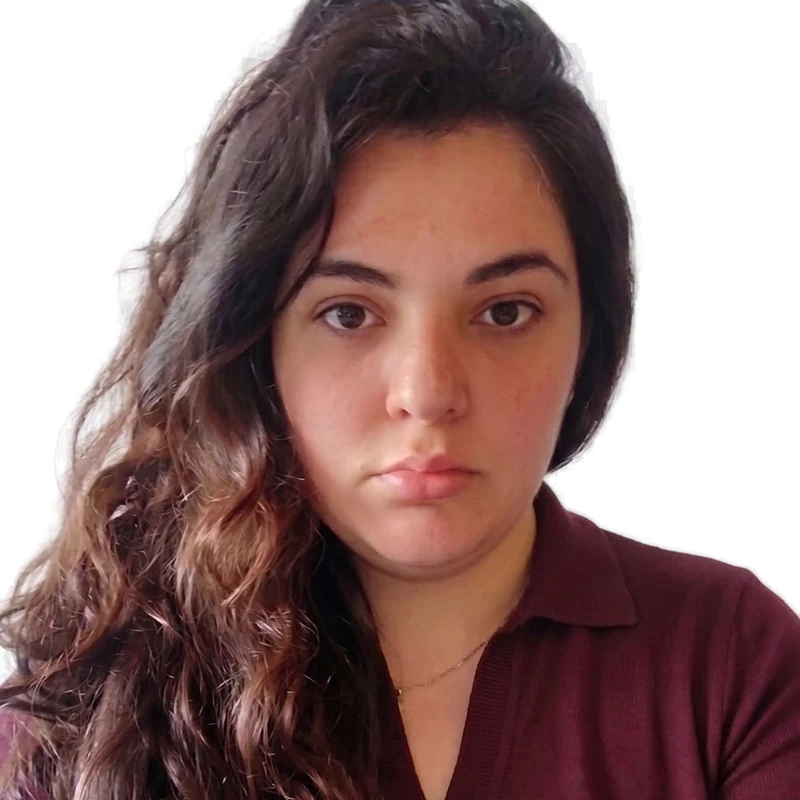
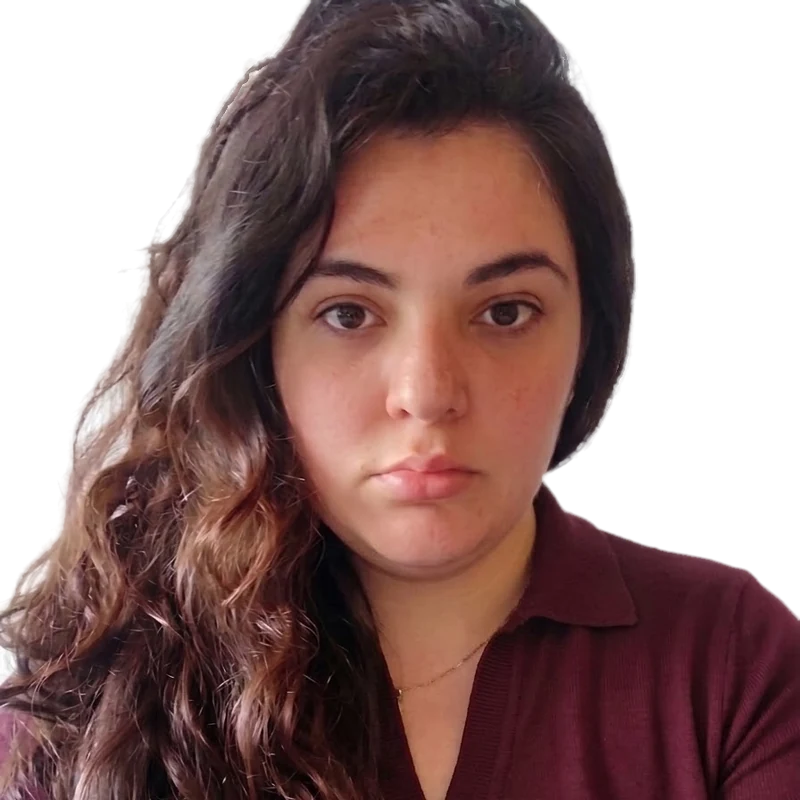
style: paleta violeta oscura, foto fundida y logotipo del nombre

diff --git a/src/main.ts b/src/main.ts
@@ -29,21 +29,17 @@ if (app) {
       <section class="hero-static" aria-label="Presentación">
         <div>
           <p class="pill">Aspiración: Desarrolladora backend</p>
-          <h1>Belén Calvo</h1>
-          <p class="hero-role">Estudiante de Programación — Backend, Frontend y Bases de Datos</p>
+          <h1 class="hero-title"><svg class="hero-name-svg" xmlns="http://www.w3.org/2000/svg" viewBox="16 48 407 124" role="img" aria-label="Belén Calvo" xmlns:c2pa="http://c2pa.org/manifest"><title>Belén Calvo</title><path d="M29.6 120.4Q26.8 120.4 24 119.9Q21.1 119.4 19.2 117.7Q17.2 116 17.2 112.2Q17.2 109.7 19.2 105.2Q21.2 100.7 24.3 95.5Q27.4 90.3 30.7 85.4Q33.9 80.4 36.4 77.1Q39.3 73.2 41.6 69.4Q43.9 65.6 44.4 62.6Q44.2 62.3 42 62.9Q39.7 63.4 36.9 63.4Q35 63.4 34.3 62.9Q33.7 62.3 33.7 61.5Q33.7 60.9 33.9 60.2Q34.2 59.6 34.5 58.7Q39.8 58.2 46 56.7Q52.2 55.2 58.3 53.9Q64.5 52.5 69.8 52.5Q77.8 52.5 81.2 56.1Q84.6 59.8 84.6 64.8Q84.6 69.3 81.7 73.1Q78.8 76.8 74.2 79.8Q69.7 82.8 64.5 85Q59.4 87.2 54.7 88.4Q50 89.6 47.1 89.7Q51.9 89.7 56.2 90.9Q60.4 92.2 63.2 94.7Q66 97.2 66 101.3Q66 105.4 63.6 108.5Q61.2 111.6 57.4 113.9Q53.6 116.2 49.2 117.6Q44.7 119.1 40.6 119.7Q36.4 120.4 33.6 120.4ZM36.8 89.4Q40.8 89.2 46.4 87.5Q52 85.8 58.1 83.2Q64.2 80.6 69.4 77.3Q74.6 74.1 77.9 70.5Q81.2 66.9 81.2 63.4Q81.2 58.5 70.4 58.5Q64.9 58.5 59 59.7Q53.1 61 47.5 62Q48.2 63.2 48.2 65.1Q48.2 67.7 46.8 71.1Q45.4 74.6 43.5 78.1Q41.6 81.6 39.7 84.6Q37.9 87.6 36.8 89.4ZM33 117.8Q37 117.8 41.7 116.1Q46.3 114.5 50.3 111.9Q54.3 109.2 56.9 106.3Q59.5 103.4 59.5 100.7Q59.5 96.9 56.6 95Q53.7 93.2 49.6 92.6Q45.4 92 41.7 92Q39.6 92 37.8 92Q36.1 92.1 35.1 92.2Q33.3 95.3 30.4 99.4Q27.6 103.5 25.3 107.4Q23 111.4 23 114.5Q23 115.8 24.9 116.8Q26.7 117.8 33 117.8ZM83 119.8Q78.6 119.8 75.9 117.2Q73.3 114.6 73.3 110Q73.3 106.4 74.7 102.4Q76 98.4 77.4 96.2Q80.1 91.1 84 86.9Q87.9 82.7 92.1 80.1Q96.2 77.6 99.7 77.6Q102.9 77.6 105.3 79.4Q107.6 81.2 107.6 84.2Q107.6 85.4 107 86.9Q106.4 88.5 105.1 90.2Q100.3 96.3 94.5 99.7Q88.6 103.1 81.2 104.8Q80.7 106.4 80.4 107.9Q80 109.4 79.8 110.7Q79.6 111.3 79.6 111.8Q79.5 112.4 79.5 113Q79.5 115.4 80.7 116.4Q81.8 117.4 83.5 117.4Q86.1 117.4 89.2 116.1Q92.2 114.9 94.9 113.3Q97.6 111.6 99 110.4Q102.3 107.7 106.1 103.9Q109.9 100.1 112.9 96.5Q114.8 91.7 117.2 86.6Q119.6 81.4 122.1 76.6Q124.6 71.8 126.7 68.3Q131.1 61 135 57Q138.8 53.1 141.9 51.6Q144.9 50.2 146.8 50.3Q143.7 53.8 140 58.8Q136.3 63.9 132.1 71Q126.8 80.1 122.9 87.5Q119 95 116.2 102.8Q114.7 107.3 114.7 110.2Q114.7 114.3 117.4 114.3Q119.6 114.3 122.3 112.1Q125 110 126.6 108.3Q129 105.9 130.8 103.8Q132.7 101.7 134.5 99.5Q134.8 99.2 135.1 99.2Q135.8 99.2 135.8 100.2Q135.8 100.8 135.3 101.3Q134 102.9 132.7 104.5Q131.5 106.1 130 107.7Q128.8 109.2 127.3 110.7Q125.8 112.2 124.5 113.6Q122.5 115.5 119.5 116.9Q116.6 118.4 114.1 118.4Q111.8 118.4 110.2 116.9Q108.7 115.4 108.7 111.6Q108.7 110.8 108.8 109.8Q108.9 108.8 109.2 107.6Q109.4 106.6 109.7 105.3Q110 104.1 110.5 102.6Q108.2 104.9 105.5 107.5Q102.8 110.1 100.6 112.1Q97.8 114.6 93.2 117.2Q88.6 119.8 83 119.8ZM81.9 103.2Q85 101.9 89.2 99.4Q93.3 96.9 97.2 93.3Q101.1 89.8 103.6 85.7Q104.5 84.4 104.5 83.3Q104.5 81.6 102.6 81.6Q101.2 81.6 99.3 82.6Q93.3 85.8 89 91.4Q84.7 96.9 81.9 103.2ZM141.9 119.8Q137.5 119.8 134.8 117.2Q132.2 114.6 132.2 110Q132.2 106.4 133.6 102.4Q135 98.4 136.3 96.2Q139 91.1 142.9 86.9Q146.8 82.7 151 80.1Q155.1 77.6 158.6 77.6Q161.8 77.6 164.2 79.4Q166.5 81.2 166.5 84.2Q166.5 85.4 165.9 86.9Q165.3 88.5 164 90.2Q159.2 96.3 153.4 99.7Q147.6 103.1 140.1 104.8Q139.6 106.4 139.3 107.9Q138.9 109.4 138.7 110.7Q138.6 111.3 138.5 111.8Q138.4 112.4 138.4 113Q138.4 115.4 139.6 116.4Q140.7 117.4 142.4 117.4Q145 117.4 148 116Q151 114.6 153.7 112.8Q156.3 111 157.6 110Q159 108.8 160.2 107.5Q161.5 106.2 163 104.7Q164.2 103.4 165.3 102.1Q166.4 100.8 167.4 99.5Q167.7 99.2 168 99.2Q168.7 99.2 168.7 100.2Q168.7 100.8 168.2 101.3Q166 104 163.9 106.5Q161.7 109.1 159.4 111.5Q156.8 114.3 152.2 117Q147.6 119.8 141.9 119.8ZM140.8 103.2Q144 101.9 148.1 99.4Q152.2 96.9 156.1 93.3Q160 89.8 162.6 85.7Q163.4 84.4 163.4 83.3Q163.4 81.6 161.5 81.6Q160.2 81.6 158.2 82.6Q152.2 85.8 147.9 91.4Q143.6 96.9 140.8 103.2ZM157 71.6Q156.3 71.6 156.3 70.7Q156.3 70.2 156.8 69.9Q159.1 67.8 161.9 65Q164.7 62.2 165.9 61Q166.4 60.4 167.2 59.9Q168 59.3 168.8 59.3Q170.5 59.3 171.3 60Q172 60.8 172 61.2Q172 61.5 170.4 62.8Q168.8 64.1 166.8 65.5Q164.8 66.9 163.8 67.6Q163 68.1 161.6 69Q160.2 70 158.8 70.7Q157.5 71.4 157.2 71.6ZM159.1 118.7Q164.2 109.1 167.7 100.2Q171.1 91.2 175.5 82.1Q176.8 79.7 178.9 78.8Q180.9 77.9 182.8 77.9Q184.4 77.9 185.6 78.3Q185.2 79.1 183.7 81.6Q182.2 84 180.6 87.2Q179.4 89.3 177 93.8Q174.6 98.3 172.5 103.1Q173.6 101.8 175.9 98.8Q178.2 95.8 181.2 92.3Q184.2 88.7 187.5 85.4Q190.8 82.1 193.9 80Q197.1 77.9 199.6 77.9Q201.6 77.9 203 79.1Q204.4 80.3 204.4 82.4Q204.4 85.4 201.9 89.4Q199.4 93.4 196.9 97.2Q196.4 98 195.1 100Q193.9 102 192.4 104.6Q191 107.2 190 109.5Q189 111.9 189 113.2Q189 114.5 190 114.5Q192.3 114.5 194.8 112.7Q197.2 110.9 199.5 108.6Q201.8 106.2 203.1 104.7Q204.4 103.2 205.5 101.9Q206.6 100.6 207.7 99.4Q208 99 208.3 99Q209 99 209 100.1Q209 100.8 208.5 101.3Q207.2 102.9 205.9 104.5Q204.6 106.1 203.1 107.7Q201.8 109.2 200.4 110.7Q199 112.2 197.6 113.6Q192.4 118.4 188 118.4Q185 118.4 184 116.6Q183 114.8 183 112.1Q183 109.2 184.5 105.9Q186.1 102.5 188.4 99Q190.6 95.4 193 92.1Q195.3 88.7 196.9 85.9Q198.4 83.1 198.4 81.2Q198.4 80.4 197.6 80.4Q196.9 80.4 194.8 82.2Q192.7 83.9 190.3 86.3Q187.9 88.6 185.8 90.8Q183.7 92.9 183 93.9Q180 97.1 177.1 100.8Q174.3 104.6 171.8 108Q170.4 110.1 169.3 112.2Q168.2 114.3 166.9 116.6Q166.3 117.6 165.3 117.8Q164.2 118 162.6 118.1Q161.4 118.1 160.6 118.2Q159.9 118.2 159.1 118.7ZM248.5 120.4Q241.9 120.4 237.9 118Q233.8 115.6 232 111.5Q230.2 107.3 230.2 102.2Q230.2 95.8 232.6 88.9Q235 82 239.2 75.6Q243.4 69.3 248.9 64.2Q254.4 59.1 260.7 56.1Q267 53.1 273.4 53.1Q280.6 53.1 284 56.3Q287.4 59.6 287.4 64.1Q287.4 66.3 286.6 68.7Q285.8 71.3 284.6 74.1Q283.4 77 282.4 79.2Q281.5 81.4 281.1 82.4Q279.2 82.4 278.5 81.3Q277.8 80.2 277.8 78.4Q277.8 76.4 278.6 73.6Q279.4 70.8 280.5 68.2Q281.7 65.4 281.7 62.7Q281.7 59.9 280.2 58Q278.6 56.1 275.1 56.1Q268.8 56.1 263.1 59.4Q257.5 62.7 252.9 68.1Q248.2 73.6 244.9 80.1Q241.5 86.6 239.7 93Q237.8 99.4 237.8 104.6Q237.8 110.3 240.3 114Q242.7 117.6 249.3 117.6Q257.2 117.6 264.1 111.3Q270.9 105 274.8 95.2Q276.2 96 276.2 98.8Q276.2 103.5 273.4 107.4Q270.7 111.4 266.3 114.3Q261.9 117.2 257.2 118.8Q252.4 120.4 248.5 120.4ZM288.2 118.5Q284.2 118.5 282.7 116.6Q281.1 114.6 281.1 111.9Q281.1 108.3 282.9 104.2Q284.6 100.1 285.9 97.8Q289.2 92.7 293.6 88Q298 83.3 303 80.4Q308 77.4 312.6 77.4Q315 77.4 317.2 78.2Q319.5 79 321.7 80.8Q322.8 81.6 323.2 82.4Q323.6 83.2 323.6 83.8Q323.6 85.6 322 85.6Q321 85.6 320.5 84.2Q318.9 80.1 315.4 80.1Q312.4 80.1 308.6 82.8Q304.8 85.6 301 89.4Q297 93.8 293.6 98.7Q290.2 103.7 288.6 107.8Q287.7 109.6 287.4 111Q287.1 112.4 287.1 113.3Q287.1 115.5 288.9 115.5Q291 115.5 294.9 112.5Q297.8 110.2 300.9 107Q303.9 103.7 306.6 100.5Q309.2 97.4 310.8 95.6Q311.4 94.6 311.9 93.8Q312.4 92.9 312.9 92.3Q313.4 91.7 314.5 91.4Q315.7 91 316.9 91Q318.3 91 319.3 91.5Q320.2 92 319.6 93.2Q319.6 93.3 318.3 95.6Q317 98 315.3 101.2Q313.5 104.4 312.2 107.4Q311.5 109.1 311 110.6Q310.5 112 310.5 113Q310.5 114.5 311.7 114.5Q312.6 114.5 314.2 113.6Q316.9 112.2 319.6 109.7Q322.3 107.2 324.6 104.6Q325.9 103.2 327 102Q328 100.8 329 99.5Q329.4 99.2 329.6 99.2Q330.3 99.2 330.3 100.2Q330.3 100.8 329.8 101.3Q328.5 102.9 327.2 104.5Q325.9 106.1 324.4 107.7Q323.1 109.2 321.7 110.7Q320.4 112.2 318.9 113.6Q313.8 118.4 309.4 118.4Q307.5 118.4 306.2 117Q304.9 115.6 304.9 112.6Q304.9 110.3 305.7 107.4Q306 106.1 306.5 104.8Q307 103.5 307.5 102Q305.1 105.9 302.1 109.7Q299 113.4 295.5 116Q292 118.5 288.2 118.5ZM331.4 118.4Q329.1 118.4 327.6 116.9Q326 115.4 326 111.6Q326 110.8 326.1 109.8Q326.2 108.8 326.5 107.6Q327.1 104.3 329 99.3Q330.9 94.2 333.6 88.5Q336.2 82.8 339 77.5Q341.7 72.2 344 68.3Q348.4 61 352.3 57Q356.1 53.1 359.1 51.6Q362.1 50.2 364.2 50.3Q361 53.8 357.3 58.8Q353.6 63.9 349.4 71Q344.1 80.1 340.2 87.5Q336.3 95 333.6 102.8Q332 107.3 332 110.2Q332 114.3 334.8 114.3Q336.9 114.3 339.6 112.1Q342.3 110 343.9 108.3Q346.3 105.9 348.1 103.8Q350 101.7 351.8 99.5Q352.2 99.2 352.4 99.2Q353.1 99.2 353.1 100.2Q353.1 100.8 352.6 101.3Q351.3 102.9 350.1 104.5Q348.8 106.1 347.4 107.7Q346.2 109.2 344.7 110.7Q343.2 112.2 341.7 113.6Q339.7 115.5 336.8 116.9Q333.9 118.4 331.4 118.4ZM357.9 119.4Q354.6 119.4 353 117.3Q351.4 115.1 351.4 111.6Q351.4 108 352.9 103.5Q354.4 99 357 94.4Q359.6 89.8 362.8 86Q366.1 82.2 369.4 80.2Q366.3 80.3 363 81.6Q359.7 82.8 357.3 82.8Q355.3 82.8 354 81.2Q352.6 79.6 352.6 78.4Q352.6 77.7 353.4 77.7Q353.8 77.7 354.7 78.2Q355.9 78.9 357.7 79.1Q359.5 79.4 361.5 79.4Q364.3 79.4 366.9 79.1Q369.4 78.8 370.8 78.6Q371.1 78.5 371.6 78.5Q372.1 78.5 372.6 78.5Q373.9 78.5 374.9 78.8Q375.9 79 375.9 79.7Q375.9 80.6 374.6 81.5Q372.9 82.7 370.1 86.1Q367.3 89.4 364.3 93.9Q361.4 98.3 359.2 102.9Q359 103.6 358.2 105.7Q357.3 107.8 356.6 110.2Q355.9 112.6 355.9 114.5Q355.9 117.4 357.9 117.4Q361.5 117.4 365.2 114.6Q369 111.9 372.3 107.4Q375.7 103 378.3 97.8Q381 92.7 382.5 87.6Q384.1 82.6 384.1 78.8Q384.1 76.7 384 75Q383.8 73.4 383.4 71.8Q383.7 71.7 384.1 71.7Q384.4 71.7 384.7 71.7Q387.4 71.7 388.7 74.2Q390 76.7 390 79.8Q390 86 385.9 93.7Q381.9 101.4 375.4 108.9Q373.3 111.2 370.6 113.6Q367.9 116.1 364.8 117.8Q361.6 119.4 357.9 119.4ZM395 118.8Q390.6 118.8 388.3 116Q386.1 113.1 386.1 108.6Q386.1 103.6 388.8 97.6Q391.2 92.2 394.9 87.8Q398.7 83.3 403.2 80.6Q407.6 77.9 411.7 77.9Q416.6 77.9 418.9 80.9Q421.2 83.9 421.2 88.5Q421.2 93.4 418.6 99Q417.3 101.9 414.8 105.3Q412.3 108.6 409 111.8Q405.8 114.9 402.1 116.9Q398.5 118.8 395 118.8ZM397.3 116.4Q399.8 116.4 402.3 114.7Q404.8 113 407.1 110.4Q409.4 107.9 411.1 105.3Q412.9 102.8 413.7 101Q415.8 97.1 416.7 93.6Q417.7 90 417.7 87.4Q417.7 81.6 413.4 81.6Q410.7 81.6 407.8 83.7Q404.8 85.8 402.1 89.3Q399.3 92.8 397.3 97.1Q393 105.8 393 111.2Q393 115.5 395.7 116.2Q396.1 116.3 396.4 116.4Q396.8 116.4 397.3 116.4Z" fill="currentColor"/><path d="M29.4 170.2Q28.2 170.2 27.4 169.8Q26.5 169.4 26.1 168.7Q25.6 167.9 25.7 166.9L25.9 163.6Q26 162.5 25.6 162.1Q25.2 161.6 23.9 161.6H21.7V160H23.9Q25.2 160 25.6 159.5Q26 159.1 25.9 158L25.7 154.7Q25.6 153.7 26.1 152.9Q26.5 152.2 27.4 151.8Q28.2 151.4 29.4 151.4H30.3V153H29.4Q28.5 153 28 153.4Q27.5 153.9 27.5 154.7L27.7 158Q27.8 159.3 27.1 160.1Q26.4 160.8 25.1 160.8V160.7Q26.4 160.7 27.1 161.5Q27.8 162.3 27.7 163.6L27.5 166.9Q27.5 167.7 28 168.2Q28.5 168.6 29.4 168.6H30.3V170.2ZM50.6 168.2Q49.3 168.2 48.5 167.5Q47.6 166.7 47.6 165.5L48 165.9H47.6V168H45.8V153.4H47.6V156.6L47.6 159.1H48L47.6 159.5Q47.6 158.3 48.5 157.5Q49.3 156.8 50.6 156.8Q52.3 156.8 53.3 157.9Q54.3 159 54.3 160.9V164.1Q54.3 166 53.3 167.1Q52.3 168.2 50.6 168.2ZM50 166.6Q51.2 166.6 51.8 166Q52.5 165.3 52.5 164V161Q52.5 159.7 51.8 159Q51.2 158.4 50 158.4Q48.9 158.4 48.3 159.1Q47.6 159.8 47.6 161V164Q47.6 165.2 48.3 165.9Q48.9 166.6 50 166.6ZM61 168.2Q59.3 168.2 58.3 167.3Q57.3 166.4 57.3 164.9Q57.3 163.4 58.3 162.5Q59.3 161.6 61 161.6H64.4V160.5Q64.4 159.5 63.8 158.9Q63.2 158.4 62.1 158.4Q61.1 158.4 60.4 158.8Q59.8 159.2 59.7 159.9H57.9Q58 158.5 59.2 157.6Q60.4 156.8 62.1 156.8Q64 156.8 65.1 157.8Q66.2 158.8 66.2 160.4V168H64.4V165.9H64.1L64.4 165.6Q64.4 166.8 63.5 167.5Q62.6 168.2 61 168.2ZM61.5 166.8Q62.8 166.8 63.6 166.1Q64.4 165.5 64.4 164.5V162.9H61Q60.1 162.9 59.6 163.4Q59.1 163.9 59.1 164.8Q59.1 165.7 59.7 166.2Q60.4 166.8 61.5 166.8ZM74.1 168.2Q72.8 168.2 71.8 167.7Q70.8 167.2 70.2 166.2Q69.7 165.3 69.7 164V161Q69.7 159.7 70.2 158.7Q70.8 157.8 71.8 157.3Q72.8 156.8 74.1 156.8Q76 156.8 77.1 157.8Q78.3 158.8 78.4 160.6H76.6Q76.5 159.5 75.8 159Q75.2 158.4 74.1 158.4Q72.9 158.4 72.2 159.1Q71.5 159.7 71.5 161V164Q71.5 165.2 72.2 165.9Q72.9 166.6 74.1 166.6Q75.2 166.6 75.8 166Q76.5 165.4 76.6 164.4H78.4Q78.3 166.2 77.1 167.2Q76 168.2 74.1 168.2ZM81.9 168V153.4H83.7V161.5H85.8L89 157H91.1L87.4 162.2L91.1 168H89L85.8 163.1H83.7V168ZM98 168.2Q96.7 168.2 95.7 167.7Q94.8 167.2 94.2 166.2Q93.7 165.3 93.7 164V161Q93.7 159.7 94.2 158.8Q94.8 157.8 95.7 157.3Q96.7 156.8 98 156.8Q99.3 156.8 100.3 157.3Q101.2 157.8 101.8 158.8Q102.3 159.7 102.3 161V162.9H95.5V164Q95.5 165.3 96.1 166Q96.8 166.7 98 166.7Q99 166.7 99.7 166.3Q100.3 165.9 100.5 165.2H102.3Q102.1 166.6 100.9 167.4Q99.7 168.2 98 168.2ZM100.5 161.7V161Q100.5 159.7 99.9 159Q99.2 158.3 98 158.3Q96.8 158.3 96.1 159Q95.5 159.7 95.5 161V161.6H100.7ZM105.8 168V157H107.6V159.1H108L107.6 159.5Q107.6 158.2 108.4 157.5Q109.2 156.8 110.6 156.8Q112.2 156.8 113.2 157.8Q114.2 158.8 114.2 160.6V168H112.4V160.8Q112.4 159.6 111.8 159Q111.1 158.4 110.1 158.4Q108.9 158.4 108.3 159Q107.6 159.7 107.6 161V168ZM121.4 168.2Q119.7 168.2 118.7 167.1Q117.7 166 117.7 164.1V160.9Q117.7 159 118.7 157.9Q119.7 156.8 121.4 156.8Q122.7 156.8 123.5 157.5Q124.4 158.3 124.4 159.5L124 159.1H124.4L124.4 156.6V153.4H126.2V168H124.4V165.9H124L124.4 165.5Q124.4 166.7 123.5 167.5Q122.7 168.2 121.4 168.2ZM122 166.6Q123.1 166.6 123.7 165.9Q124.4 165.2 124.4 164V161Q124.4 159.8 123.7 159.1Q123.1 158.4 122 158.4Q120.8 158.4 120.2 159Q119.5 159.7 119.5 161V164Q119.5 165.3 120.2 166Q120.8 166.6 122 166.6ZM146 162.8Q145.2 162.8 144.8 162.4Q144.3 161.9 144.3 161.2Q144.3 160.4 144.8 159.9Q145.2 159.5 146 159.5Q146.8 159.5 147.2 159.9Q147.7 160.4 147.7 161.2Q147.7 161.9 147.2 162.4Q146.8 162.8 146 162.8ZM168.4 168V159.7H165.2V158.1H168.4V156.2Q168.4 154.9 169.2 154.2Q170 153.4 171.5 153.4H174.7V155H171.5Q170.9 155 170.5 155.3Q170.2 155.6 170.2 156.2V158.1H174.7V159.7H170.2V168ZM178.2 168V157H180V159.1H180.4L179.8 160.4Q179.8 158.6 180.6 157.7Q181.4 156.8 182.9 156.8Q184.6 156.8 185.7 157.9Q186.7 159 186.7 160.8V161.5H184.9V161Q184.9 159.7 184.2 159Q183.6 158.3 182.5 158.3Q181.3 158.3 180.7 159Q180 159.7 180 161V168ZM194 168.2Q192.7 168.2 191.7 167.7Q190.8 167.2 190.2 166.2Q189.7 165.3 189.7 164V161Q189.7 159.7 190.2 158.8Q190.8 157.8 191.7 157.3Q192.7 156.8 194 156.8Q195.3 156.8 196.3 157.3Q197.2 157.8 197.8 158.8Q198.3 159.7 198.3 161V164Q198.3 165.3 197.8 166.2Q197.2 167.2 196.3 167.7Q195.3 168.2 194 168.2ZM194 166.6Q195.2 166.6 195.8 165.9Q196.5 165.2 196.5 164V161Q196.5 159.8 195.8 159.1Q195.2 158.4 194 158.4Q192.8 158.4 192.2 159.1Q191.5 159.8 191.5 161V164Q191.5 165.2 192.2 165.9Q192.8 166.6 194 166.6ZM201.8 168V157H203.6V159.1H204L203.6 159.5Q203.6 158.2 204.4 157.5Q205.2 156.8 206.6 156.8Q208.2 156.8 209.2 157.8Q210.2 158.8 210.2 160.6V168H208.4V160.8Q208.4 159.6 207.8 159Q207.1 158.4 206.1 158.4Q204.9 158.4 204.3 159Q203.6 159.7 203.6 161V168ZM219.2 168Q217.8 168 217 167.2Q216.2 166.5 216.2 165.1V158.6H213.1V157H216.2V153.9H218V157H222.4V158.6H218V165.1Q218 166.4 219.2 166.4H222.2V168ZM230 168.2Q228.7 168.2 227.7 167.7Q226.8 167.2 226.2 166.2Q225.7 165.3 225.7 164V161Q225.7 159.7 226.2 158.8Q226.8 157.8 227.7 157.3Q228.7 156.8 230 156.8Q231.3 156.8 232.3 157.3Q233.2 157.8 233.8 158.8Q234.3 159.7 234.3 161V162.9H227.5V164Q227.5 165.3 228.1 166Q228.8 166.7 230 166.7Q231 166.7 231.7 166.3Q232.3 165.9 232.5 165.2H234.3Q234.1 166.6 232.9 167.4Q231.7 168.2 230 168.2ZM232.5 161.7V161Q232.5 159.7 231.9 159Q231.2 158.3 230 158.3Q228.8 158.3 228.1 159Q227.5 159.7 227.5 161V161.6H232.7ZM237.8 168V157H239.6V159.1H240L239.6 159.5Q239.6 158.2 240.4 157.5Q241.2 156.8 242.6 156.8Q244.2 156.8 245.2 157.8Q246.2 158.8 246.2 160.6V168H244.4V160.8Q244.4 159.6 243.8 159Q243.1 158.4 242.1 158.4Q240.9 158.4 240.3 159Q239.6 159.7 239.6 161V168ZM253.4 168.2Q251.7 168.2 250.7 167.1Q249.7 166 249.7 164.1V160.9Q249.7 159 250.7 157.9Q251.7 156.8 253.4 156.8Q254.7 156.8 255.5 157.5Q256.4 158.3 256.4 159.5L256 159.1H256.4L256.4 156.6V153.4H258.2V168H256.4V165.9H256L256.4 165.5Q256.4 166.7 255.5 167.5Q254.7 168.2 253.4 168.2ZM254 166.6Q255.1 166.6 255.7 165.9Q256.4 165.2 256.4 164V161Q256.4 159.8 255.7 159.1Q255.1 158.4 254 158.4Q252.8 158.4 252.2 159Q251.5 159.7 251.5 161V164Q251.5 165.3 252.2 166Q252.8 166.6 254 166.6ZM278 162.8Q277.2 162.8 276.8 162.4Q276.3 161.9 276.3 161.2Q276.3 160.4 276.8 159.9Q277.2 159.5 278 159.5Q278.8 159.5 279.2 159.9Q279.7 160.4 279.7 161.2Q279.7 161.9 279.2 162.4Q278.8 162.8 278 162.8ZM301.4 168.2Q299.7 168.2 298.7 167.1Q297.7 166 297.7 164.1V160.9Q297.7 159 298.7 157.9Q299.7 156.8 301.4 156.8Q302.7 156.8 303.5 157.5Q304.4 158.3 304.4 159.5L304 159.1H304.4L304.4 156.6V153.4H306.2V168H304.4V165.9H304L304.4 165.5Q304.4 166.7 303.5 167.5Q302.7 168.2 301.4 168.2ZM302 166.6Q303.1 166.6 303.7 165.9Q304.4 165.2 304.4 164V161Q304.4 159.8 303.7 159.1Q303.1 158.4 302 158.4Q300.8 158.4 300.2 159Q299.5 159.7 299.5 161V164Q299.5 165.3 300.2 166Q300.8 166.6 302 166.6ZM313 168.2Q311.3 168.2 310.3 167.3Q309.3 166.4 309.3 164.9Q309.3 163.4 310.3 162.5Q311.3 161.6 313 161.6H316.4V160.5Q316.4 159.5 315.8 158.9Q315.2 158.4 314.1 158.4Q313.1 158.4 312.4 158.8Q311.8 159.2 311.7 159.9H309.9Q310 158.5 311.2 157.6Q312.4 156.8 314.1 156.8Q316 156.8 317.1 157.8Q318.2 158.8 318.2 160.4V168H316.4V165.9H316.1L316.4 165.6Q316.4 166.8 315.5 167.5Q314.6 168.2 313 168.2ZM313.5 166.8Q314.8 166.8 315.6 166.1Q316.4 165.5 316.4 164.5V162.9H313Q312.1 162.9 311.6 163.4Q311.1 163.9 311.1 164.8Q311.1 165.7 311.7 166.2Q312.4 166.8 313.5 166.8ZM327.2 168Q325.8 168 325 167.2Q324.2 166.5 324.2 165.1V158.6H321.1V157H324.2V153.9H326V157H330.4V158.6H326V165.1Q326 166.4 327.2 166.4H330.2V168ZM338 168.2Q336.7 168.2 335.7 167.7Q334.8 167.2 334.2 166.2Q333.7 165.3 333.7 164V161Q333.7 159.7 334.2 158.8Q334.8 157.8 335.7 157.3Q336.7 156.8 338 156.8Q339.3 156.8 340.3 157.3Q341.2 157.8 341.8 158.8Q342.3 159.7 342.3 161V164Q342.3 165.3 341.8 166.2Q341.2 167.2 340.3 167.7Q339.3 168.2 338 168.2ZM338 166.6Q339.2 166.6 339.8 165.9Q340.5 165.2 340.5 164V161Q340.5 159.8 339.8 159.1Q339.2 158.4 338 158.4Q336.8 158.4 336.2 159.1Q335.5 159.8 335.5 161V164Q335.5 165.2 336.2 165.9Q336.8 166.6 338 166.6ZM349.7 168.2Q348.5 168.2 347.7 167.8Q346.9 167.5 346.4 166.8Q345.9 166.2 345.8 165.3H347.6Q347.7 165.9 348.2 166.2Q348.8 166.6 349.7 166.6H350.5Q351.6 166.6 352.1 166.1Q352.6 165.7 352.6 165Q352.6 164.3 352.1 163.9Q351.7 163.5 350.7 163.3L349.3 163.1Q347.6 162.8 346.9 162.1Q346.1 161.3 346.1 159.9Q346.1 158.5 347 157.7Q347.9 156.8 349.8 156.8H350.6Q352.2 156.8 353.1 157.6Q354.1 158.3 354.3 159.6H352.5Q352.4 159.1 351.9 158.8Q351.4 158.4 350.6 158.4H349.8Q348.8 158.4 348.3 158.8Q347.9 159.2 347.9 160Q347.9 160.6 348.3 161Q348.7 161.3 349.5 161.4L351 161.7Q352.8 161.9 353.6 162.7Q354.4 163.5 354.4 164.9Q354.4 166.4 353.4 167.3Q352.5 168.2 350.5 168.2ZM369.7 170.2V168.6H370.6Q371.5 168.6 372 168.2Q372.5 167.7 372.5 166.9L372.3 163.6Q372.2 162.3 372.9 161.5Q373.6 160.7 374.9 160.7V160.8Q373.6 160.8 372.9 160.1Q372.2 159.3 372.3 158L372.5 154.7Q372.5 153.9 372 153.4Q371.5 153 370.6 153H369.7V151.4H370.6Q371.8 151.4 372.6 151.8Q373.5 152.2 373.9 152.9Q374.4 153.7 374.3 154.7L374.1 158Q374 159.1 374.4 159.5Q374.8 160 376.1 160H378.3V161.6H376.1Q374.8 161.6 374.4 162.1Q374 162.5 374.1 163.6L374.3 166.9Q374.4 167.9 373.9 168.7Q373.5 169.4 372.6 169.8Q371.8 170.2 370.6 170.2Z" style="fill:var(--accent-lila,#C09BFF)"/></svg></h1>
           <p class="hero-location">Mendoza, Argentina · Modalidad remota o híbrida</p>
           <div class="hero-actions">
             <a class="btn-primary" href="#proyectos">Ver proyectos</a>
             <a class="btn-outline" href="#contacto">Descargar CV</a>
           </div>
-          <p class="mono" style="font-size: 0.85rem; color: var(--text-muted);">
-            { vista previa de estilos base · Paso 2 }
-          </p>
         </div>
 
         <div class="hero-photo">
           <img
-            src="assets/img/foto-belen-retrato.webp"
+            src="assets/img/foto-belen-fundida.webp"
             alt="Retrato de Belén Calvo"
             width="800"
             height="1067"

diff --git a/src/styles/tokens.css b/src/styles/tokens.css
@@ -1,36 +1,43 @@
 /* Design tokens — Portfolio Belén Calvo
-   Paleta: fondo #0F0D18, lila #C09BFF, fucsia #F472B6, azul francia #6EA8FF, rosado #FDA4CF.
-   Contraste WCAG 2.2 AA en modo oscuro (defecto) y modo claro. */
+   Modo oscuro: --bg #15081C, --bg-alt #1E0B28, --surface #261132, --border #31183F, --acento #8806CE.
+   Para texto y detalles sobre fondo oscuro: lila #C09BFF (contraste WCAG 2.2 AA). */
 
 :root {
-  /* Superficies (modo oscuro por defecto) */
-  --bg-base: #0F0D18;
-  --bg-surface: #171426;
-  --bg-elevated: #1F1B33;
-  --bg-glass: rgba(23, 20, 38, 0.86);
-  --bg-glass-hover: rgba(31, 27, 51, 0.92);
+  /* Paleta base (modo oscuro por defecto) */
+  --bg: #15081C;
+  --bg-alt: #1E0B28;
+  --surface: #261132;
+  --border: #31183F;
+  --acento: #8806CE;
+
+  /* Alias semánticos */
+  --bg-base: var(--bg);
+  --bg-surface: var(--surface);
+  --bg-elevated: #2F163E;
+  --bg-glass: rgba(30, 11, 40, 0.86);
+  --bg-glass-hover: rgba(38, 17, 50, 0.94);
 
   /* Texto */
   --text-primary: #F5F2FB;
-  --text-secondary: #C8C1DA;
-  --text-muted: #9D95B5;
+  --text-secondary: #D4CCE3;
+  --text-muted: #A99CC0;
   --text-on-accent: #0F0D18;
 
-  /* Acentos */
+  /* Acentos (lila #C09BFF para texto/detalles AA sobre oscuro) */
   --accent-lila: #C09BFF;
   --accent-fucsia: #F472B6;
   --accent-azul: #6EA8FF;
   --accent-rosado: #FDA4CF;
 
   /* Bordes */
-  --border-subtle: rgba(245, 242, 251, 0.12);
-  --border-strong: rgba(192, 155, 255, 0.36);
+  --border-subtle: var(--border);
+  --border-strong: rgba(192, 155, 255, 0.42);
   --border-glass: rgba(245, 242, 251, 0.16);
 
   /* Neumorphism suave (solo controles secundarios) */
-  --neu-bg: #171426;
+  --neu-bg: var(--bg-alt);
   --neu-shadow-light: rgba(255, 255, 255, 0.04);
-  --neu-shadow-dark: rgba(5, 4, 10, 0.65);
+  --neu-shadow-dark: rgba(8, 2, 12, 0.72);
 
   /* Tipografía */
   --font-display: 'Playfair Display', Georgia, serif;
@@ -52,9 +59,15 @@
 }
 
 [data-theme='light'] {
-  --bg-base: #FAF8FD;
-  --bg-surface: #FFFFFF;
-  --bg-elevated: #F2EEF9;
+  --bg: #FAF8FD;
+  --bg-alt: #F3EEF9;
+  --surface: #FFFFFF;
+  --border: rgba(23, 19, 36, 0.12);
+  --acento: #7C3AED;
+
+  --bg-base: var(--bg);
+  --bg-surface: var(--surface);
+  --bg-elevated: var(--bg-alt);
   --bg-glass: rgba(255, 255, 255, 0.88);
   --bg-glass-hover: rgba(255, 255, 255, 0.96);
 
@@ -63,18 +76,18 @@
   --text-muted: #5F5678;
   --text-on-accent: #FFFFFF;
 
-  --accent-lila: #5B2A86;
+  --accent-lila: #7C3AED;
   --accent-fucsia: #B82973;
   --accent-azul: #2358B8;
   --accent-rosado: #9E3B72;
 
-  --border-subtle: rgba(23, 19, 36, 0.12);
-  --border-strong: rgba(91, 42, 134, 0.35);
+  --border-subtle: var(--border);
+  --border-strong: rgba(124, 58, 237, 0.36);
   --border-glass: rgba(23, 19, 36, 0.14);
 
-  --neu-bg: #F3EFFA;
+  --neu-bg: var(--bg-alt);
   --neu-shadow-light: rgba(255, 255, 255, 0.9);
   --neu-shadow-dark: rgba(91, 42, 134, 0.14);
 
-  --focus-ring: 0 0 0 3px rgba(91, 42, 134, 0.38);
+  --focus-ring: 0 0 0 3px rgba(124, 58, 237, 0.38);
 }

diff --git a/src/styles/components.css b/src/styles/components.css
@@ -194,6 +194,20 @@
   padding: 3.5rem 0 2.5rem;
 }
 
+.hero-title {
+  margin: 0 0 0.75rem;
+  padding: 0;
+}
+
+.hero-name-svg {
+  width: min(460px, 100%);
+  height: auto;
+  display: block;
+  margin: 0;
+  padding: 0;
+  color: var(--text-primary);
+}
+
 .hero-role {
   font-style: italic;
   font-size: 1.15rem;
@@ -214,24 +228,40 @@
   margin-bottom: 1.25rem;
 }
 
+/* Recuadro exterior de la foto (estilo exacto del mockup de Stitch: rounded-2xl, glass-card, border-lila/30, p-6, shadow-2xl) */
 .hero-photo {
   justify-self: center;
-  width: min(280px, 100%);
-  aspect-ratio: 3 / 4;
-  border-radius: var(--radius-lg);
-  border: 1px solid var(--border-strong);
-  background-color: var(--bg-surface);
-  overflow: hidden;
+  width: min(320px, 100%);
+  padding: 1.5rem;
+  border-radius: 16px;
+  background: var(--bg-glass);
+  backdrop-filter: blur(14px);
+  -webkit-backdrop-filter: blur(14px);
+  border: 1px solid rgba(192, 155, 255, 0.3);
+  box-shadow: 0 25px 50px -12px rgba(0, 0, 0, 0.25);
   display: flex;
-  align-items: flex-end;
+  align-items: center;
   justify-content: center;
+  transition: border-color 250ms ease, box-shadow 250ms ease;
+}
+
+.hero-photo:hover {
+  border-color: rgba(192, 155, 255, 0.55);
+  box-shadow: 0 12px 32px -10px rgba(192, 155, 255, 0.22);
 }
 
 .hero-photo img {
   width: 100%;
-  height: 100%;
-  object-fit: cover;
+  height: auto;
   display: block;
+  -webkit-mask-image:
+    linear-gradient(to right, transparent 0%, #000 14%, #000 86%, transparent 100%),
+    linear-gradient(to bottom, transparent 0%, #000 8%, #000 70%, transparent 100%);
+  -webkit-mask-composite: source-in;
+  mask-image:
+    linear-gradient(to right, transparent 0%, #000 14%, #000 86%, transparent 100%),
+    linear-gradient(to bottom, transparent 0%, #000 8%, #000 70%, transparent 100%);
+  mask-composite: intersect;
 }
 
 /* Barra fija inferior en celular */
